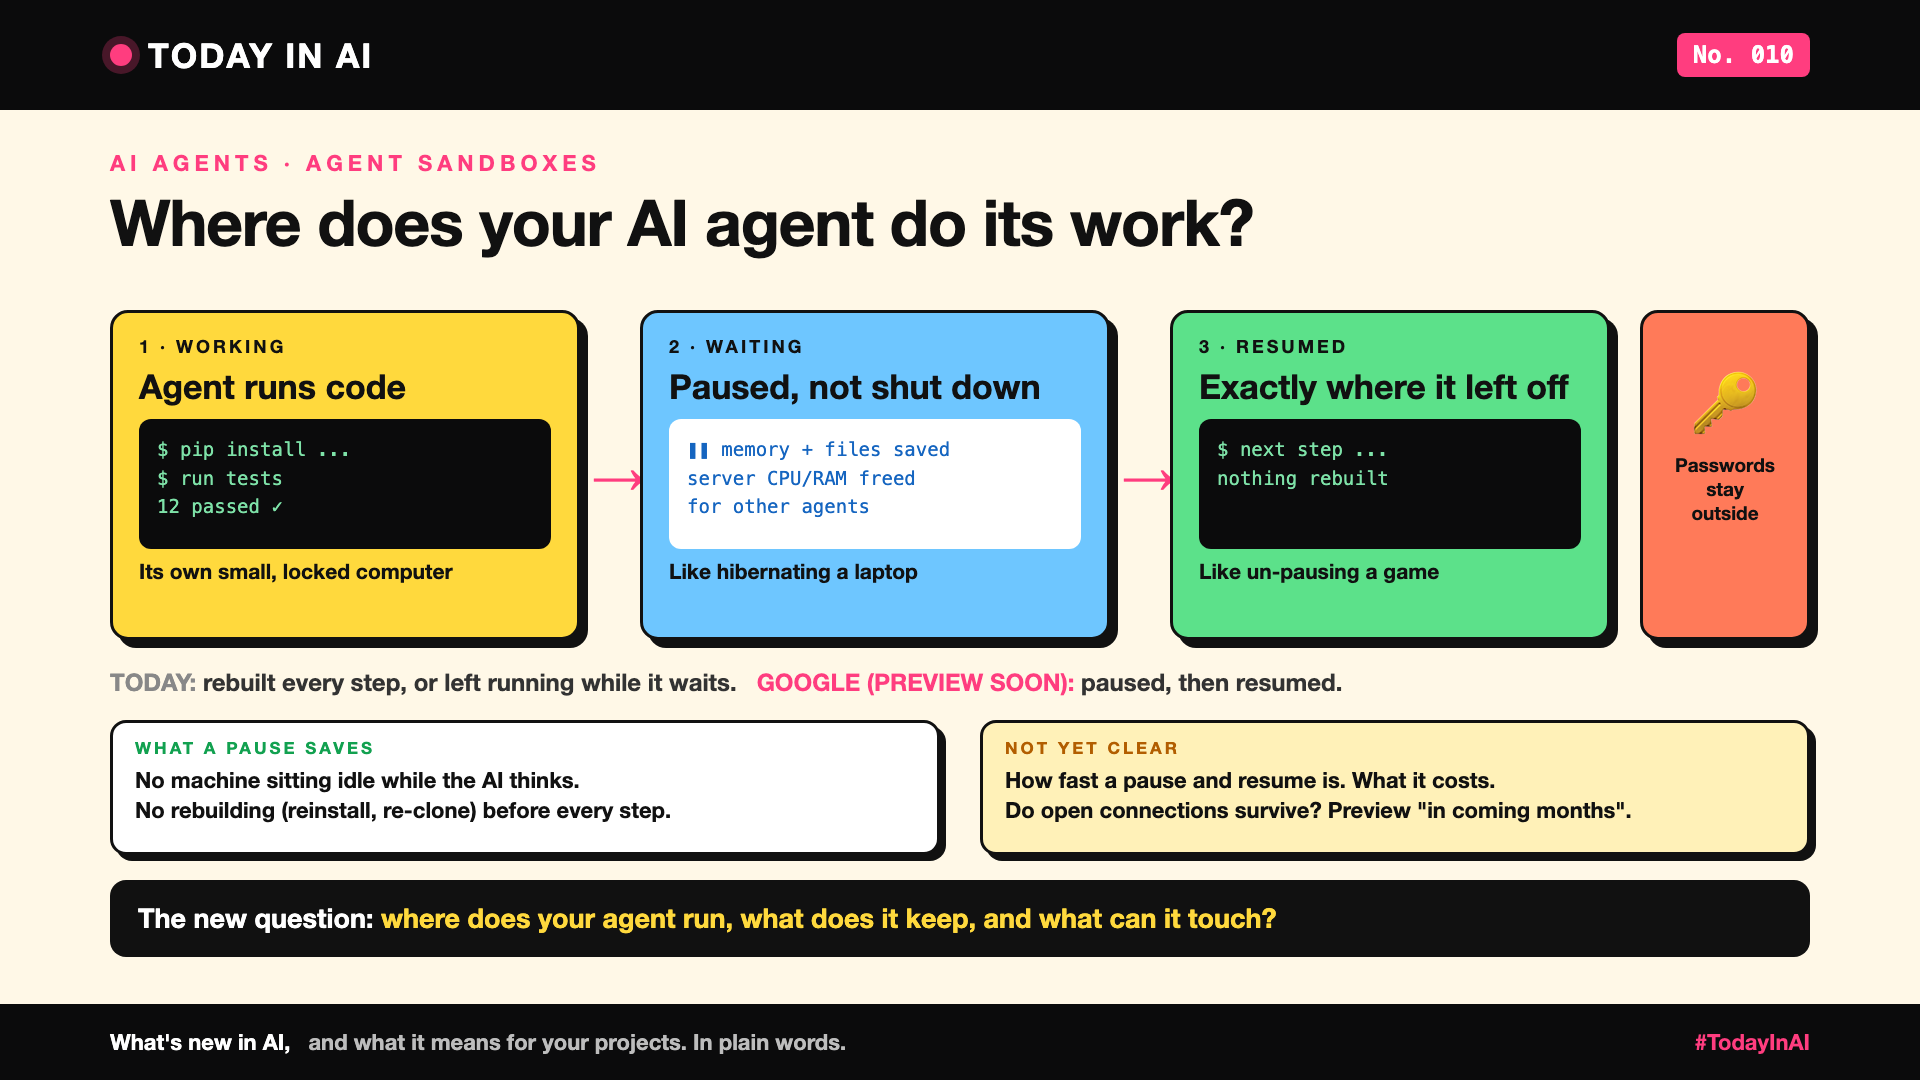
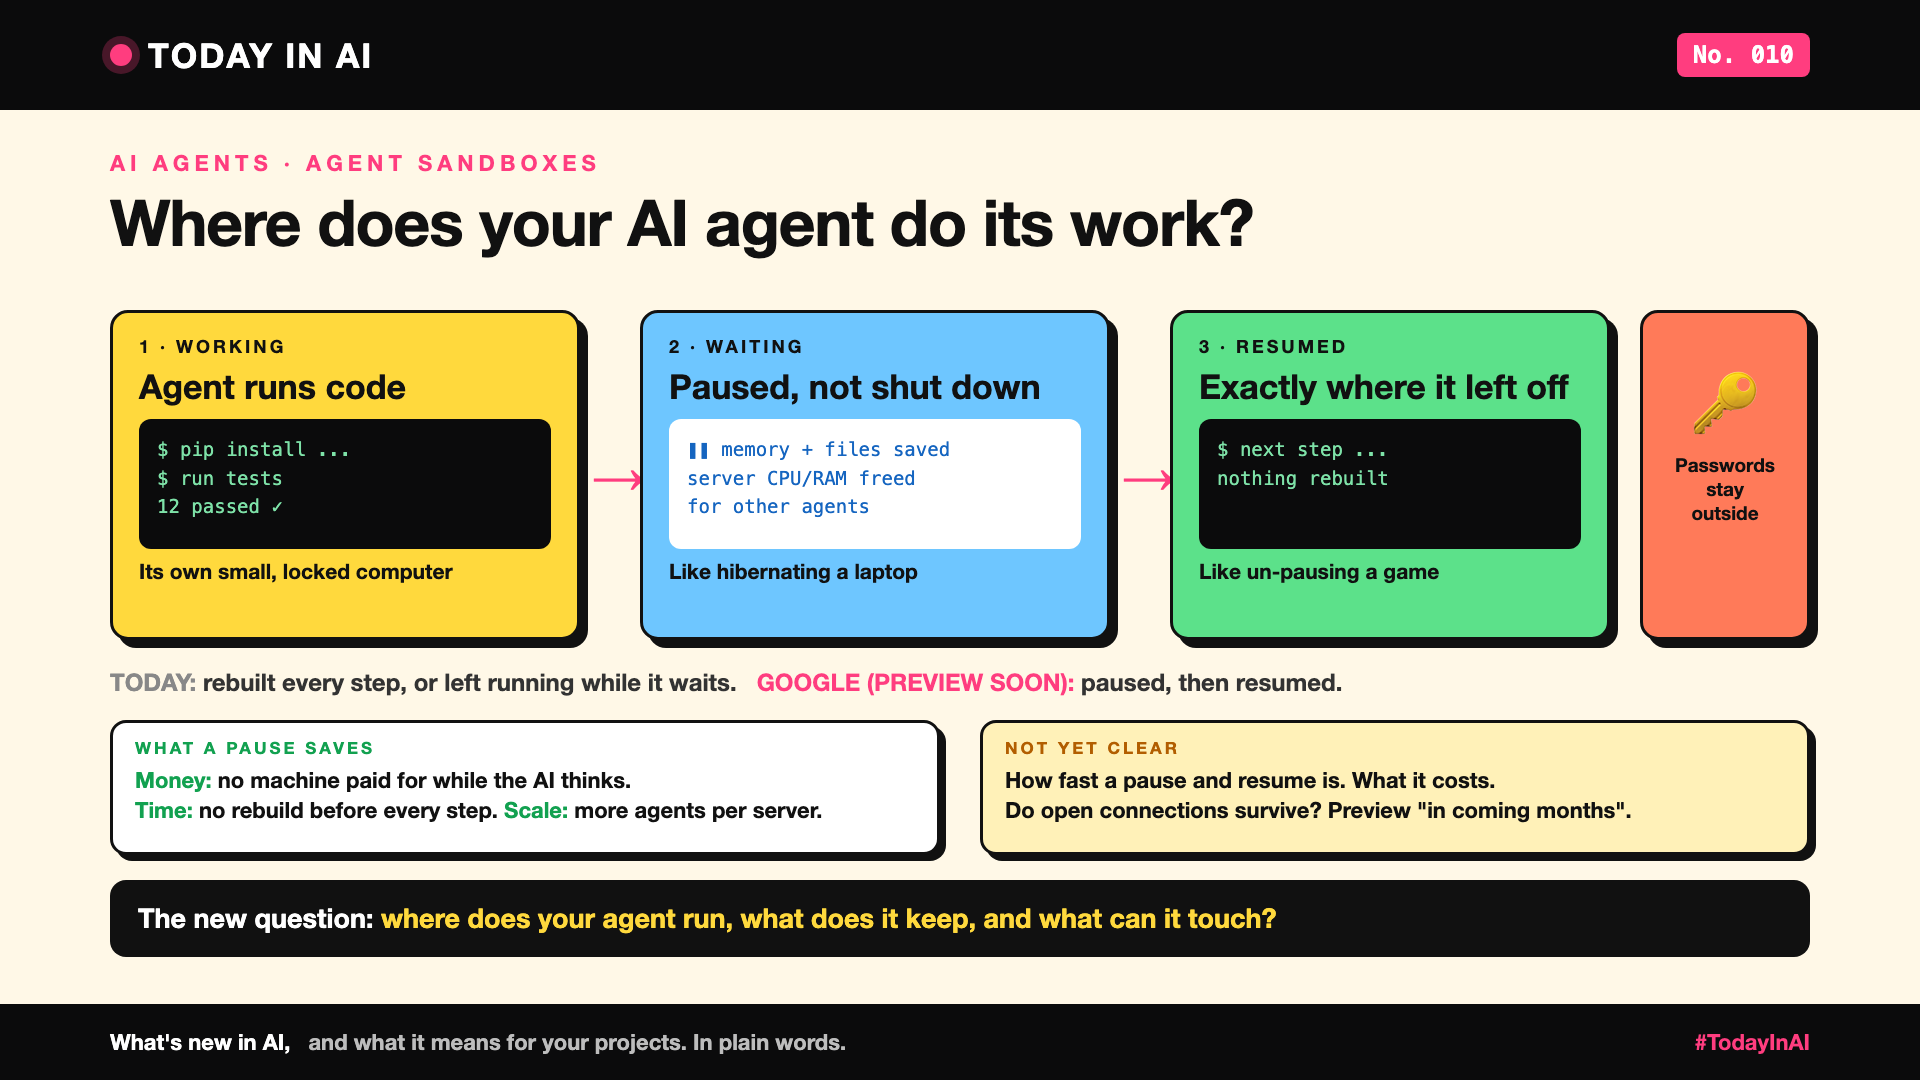
Today in AI 010: savings spelled out (money, time, scale)

Changed region(s): [[0.0625, 0.7028, 0.4375, 0.7639]]

diff --git a/20-today-in-ai/010-agent-sandboxes.md b/20-today-in-ai/010-agent-sandboxes.md
@@ -12,7 +12,7 @@ On 22 October 2026, Google Cloud announced **Agent Compute Engine**. [1]
 
 A coding agent writes code, runs tests, then waits for the AI's next decision. Google gives it a tiny virtual computer, a **microVM**, that pauses while it waits. [1]
 
-Pausing is like hibernating a laptop: memory, open programs and files are saved, and the server's processor and memory go to other agents' computers until it wakes up exactly where it left off. Nobody else ever uses its computer. It saves two things: idle machines, and rebuilding before every step.
+Pausing is like hibernating a laptop: memory, open programs and files are saved, and the server's processor and memory go to other agents' computers until it wakes up exactly where it left off. Nobody else ever uses its computer. It saves money (no machine paid for while the AI thinks), time (no rebuild before every step) and space (more agents fit on each server).
 
 ## How it's done today
 
